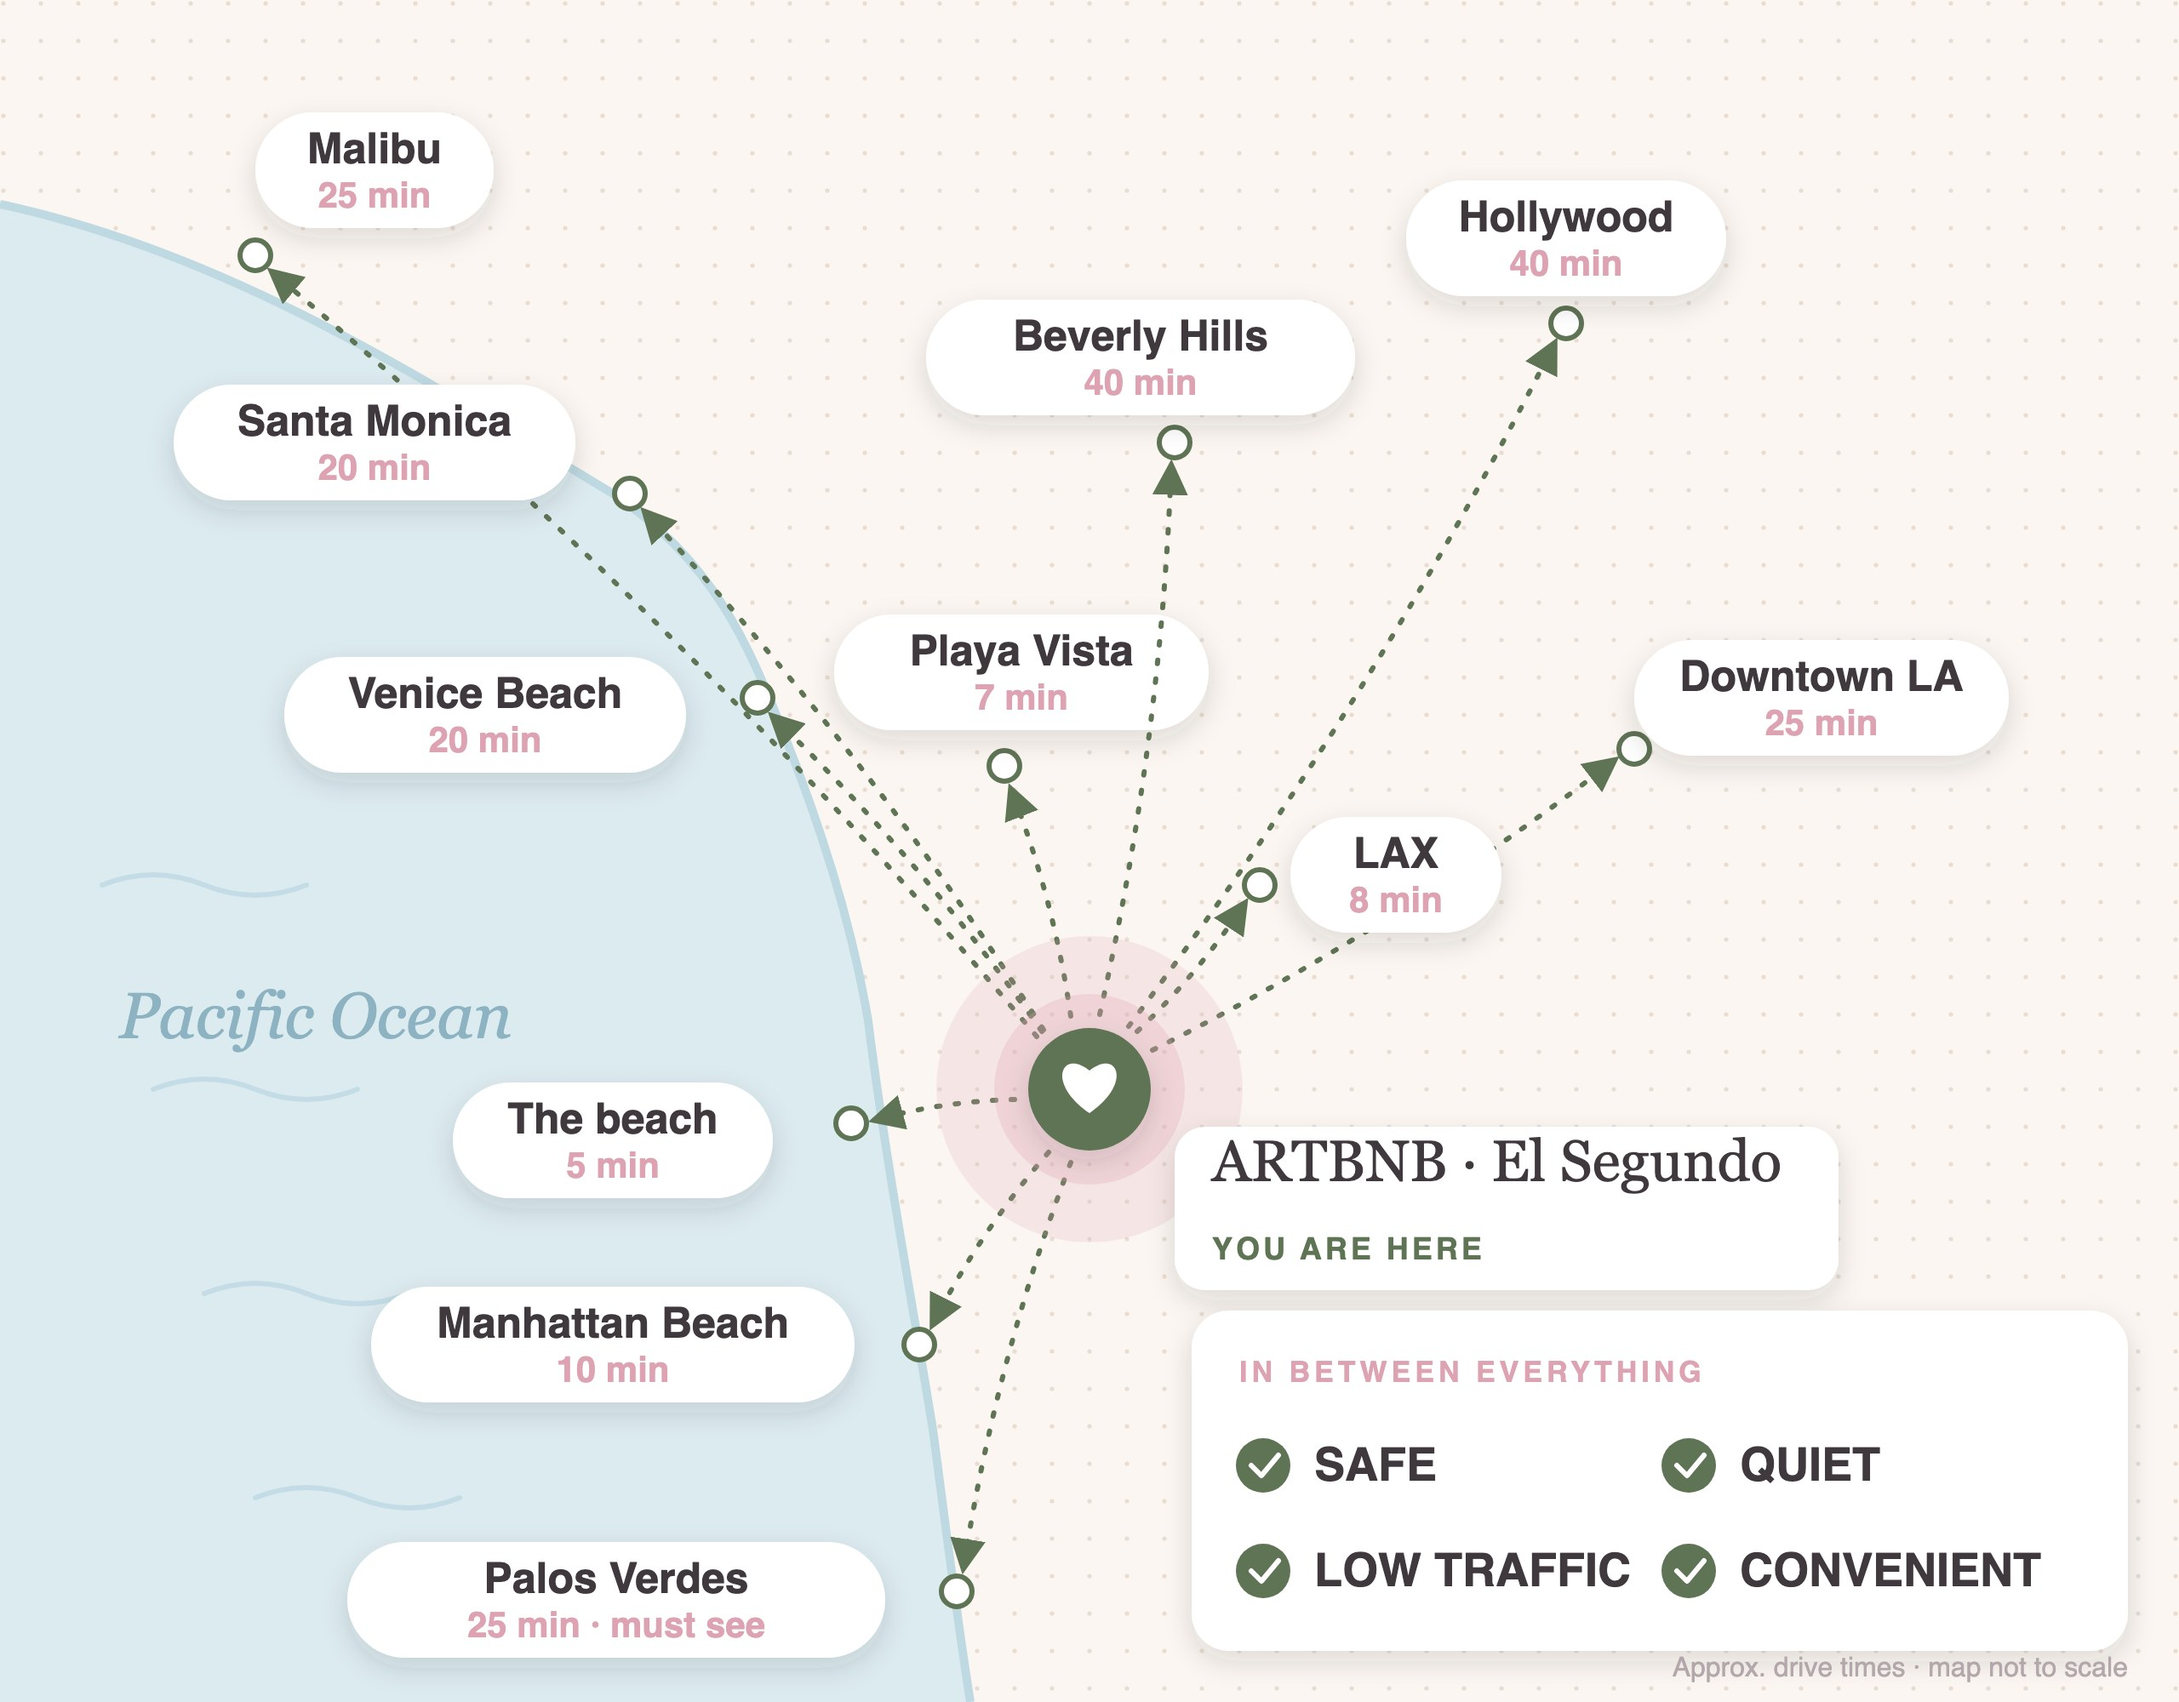
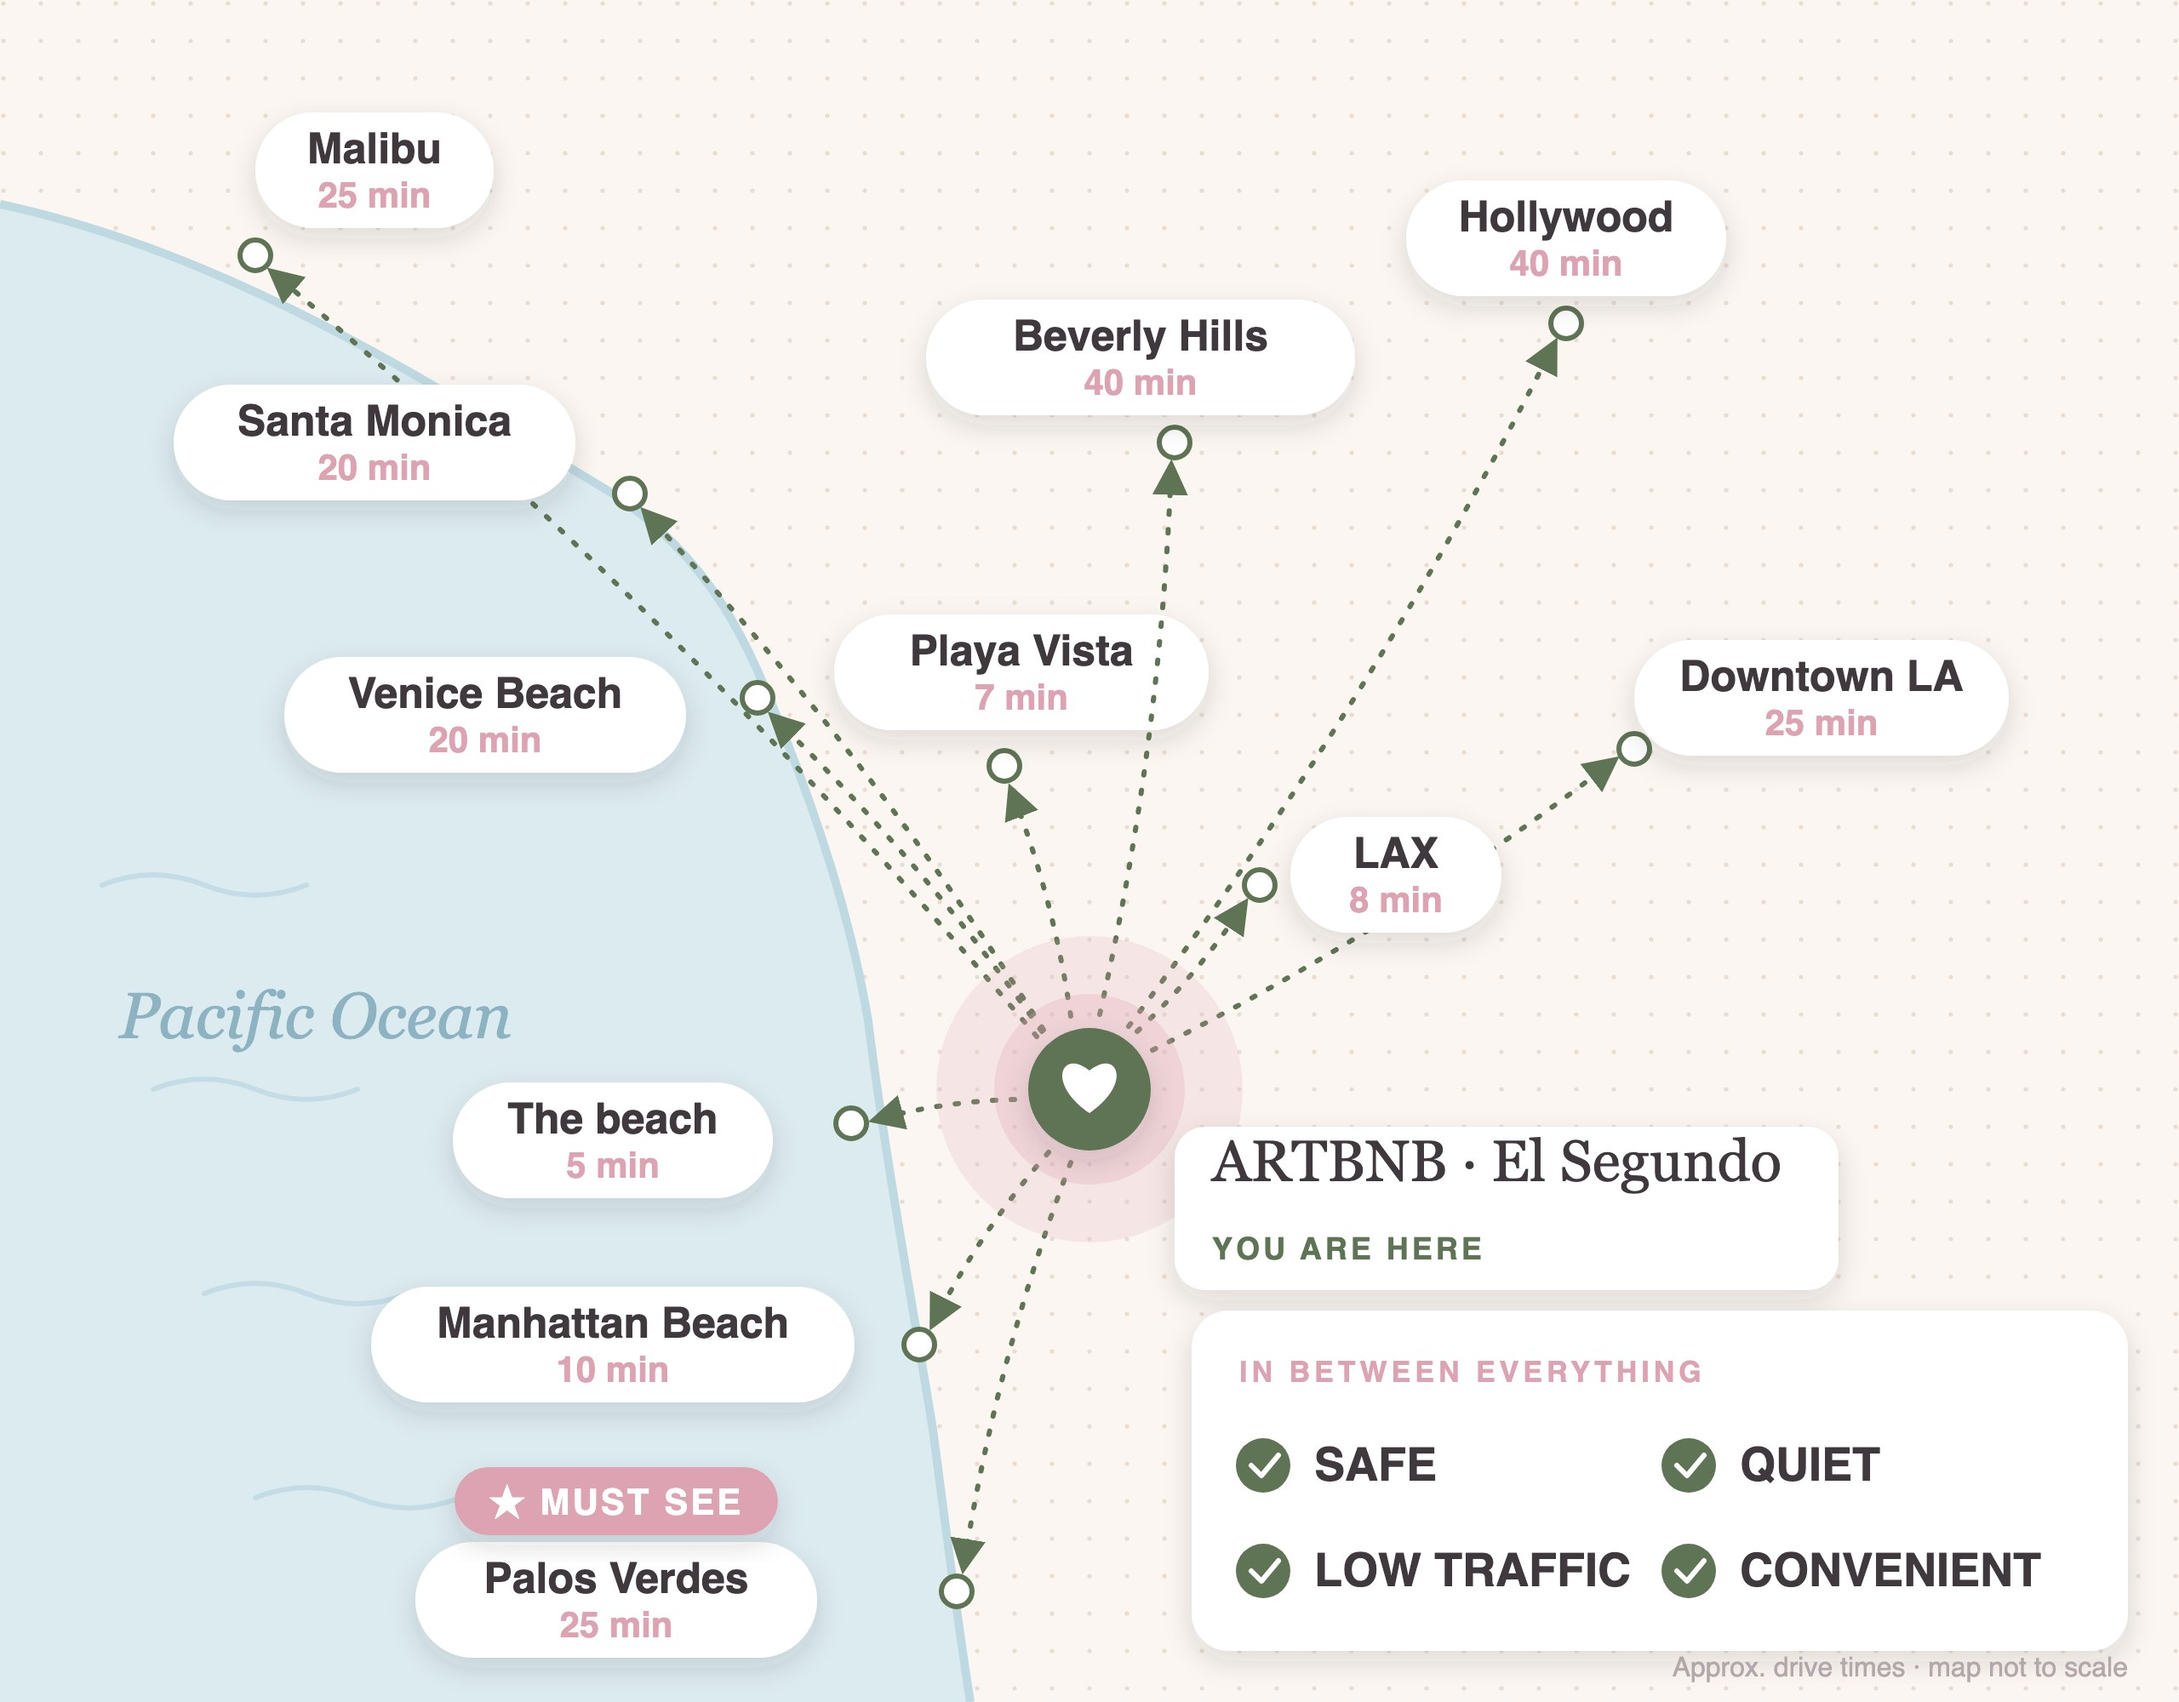
Map: bold MUST SEE badge on Palos Verdes
Claude-Session: https://claude.ai/code/session_012xw2xExUBmuc9fQH3uMMqH

Changed region(s): [[0.1562, 0.837, 0.4062, 0.992]]

diff --git a/index.html b/index.html
@@ -878,7 +878,7 @@ function viewHome(){
     '</div>' +
     '<button class="btn" style="padding:13px 22px;font-size:13.5px" onclick="app.go(\'neighborhood\')">Explore the neighborhood</button></div>' +
     '<div style="position:relative;aspect-ratio:1.28;border-radius:20px;overflow:hidden">' +
-      '<img src="images/why_map.jpg?v=3" alt="Map: El Segundo is minutes from the beach, LAX, Santa Monica, Malibu and Downtown LA" loading="lazy" style="width:100%;height:100%;object-fit:cover">' +
+      '<img src="images/why_map.jpg?v=4" alt="Map: El Segundo is minutes from the beach, LAX, Santa Monica, Malibu and Downtown LA" loading="lazy" style="width:100%;height:100%;object-fit:cover">' +
     '</div>' +
   '</section>' +
 
